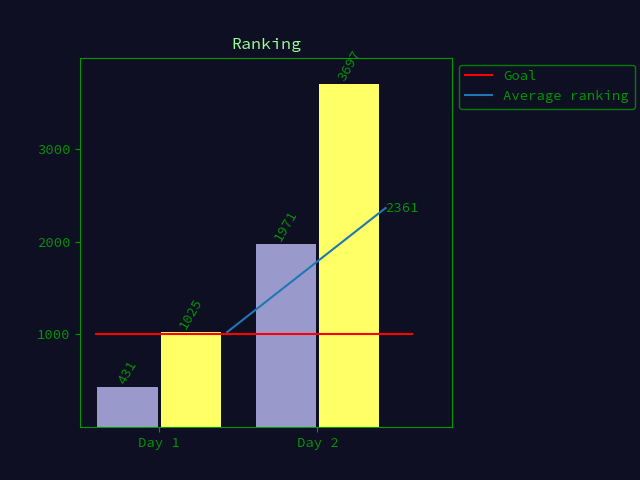
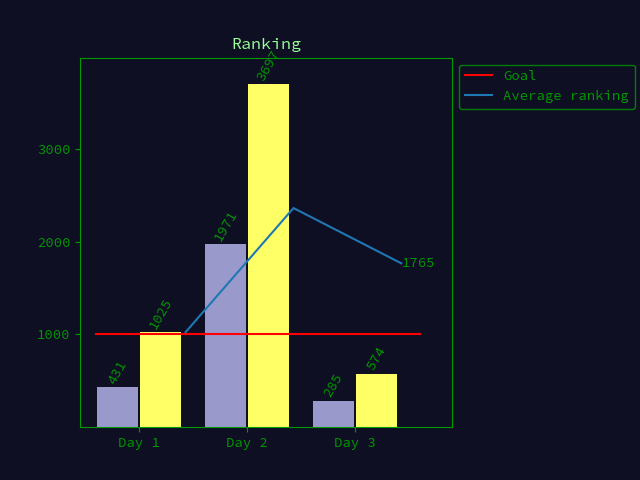
Solution: Day 3
Today was a good day, I funnily enough predicted the solution would use
regex and had pre-opened `findall` in the documentation. Didn't need it
but still I called it! The drop in score was due to me forgetting that
*don't* is not spelled *dont'*... Also that the `mul` instruction starts
out as active. But still, best score I've gotten **so far**!

Yesterday's bad score is all in the past.

Changed region(s): [[0.25, 0.125, 0.6875, 0.9375], [0.1562, 0.6562, 0.2812, 0.9375], [0.5938, 0.7812, 0.625, 0.9062]]

diff --git a/day3.py b/day3.py
@@ -1,0 +1,20 @@
+import re
+def part1(src):
+    s = 0
+    for m in re.findall(r"mul\((\d+),(\d+)\)", src):
+        s += int(m[0]) * int(m[1])
+
+    return s
+
+def part2(src):
+    is_active = True
+    s = 0
+    for m in re.findall(r"(mul|do|don\'t)\((?:(\d+),(\d+))?\)", src):
+        if m[0] == "do":
+            is_active = True
+        elif m[0] == "don't":
+            is_active = False
+        elif m[0] == "mul" and m[1] is not None and m[2] is not None and is_active:
+            s += int(m[1]) * int(m[2])
+
+    return s

diff --git a/README.md b/README.md
@@ -19,13 +19,15 @@ Sets up a correct `venv` and installs all required packages. Will skip the setup
 ## Times
 
 ```
-imported: 2 solution(s) in 365 μs
+imported: 3 solution(s) in 1940 μs
 running: all with benchmark
-day1.part1: ~ (637 μs 15679 samples)
+day1.part1: ~ (638 μs 15667 samples)
 day1.part2: ~ (19 ms 538 samples)
-day2.part1: ~ (1230 μs 8131 samples)
-day2.part2: ~ (4951 μs 2020 samples)
-total: 25 ms
+day2.part1: ~ (1266 μs 7897 samples)
+day2.part2: ~ (5107 μs 1958 samples)
+day3.part1: ~ (289 μs 34550 samples)
+day3.part2: ~ (393 μs 25418 samples)
+total: 26 ms
 ```
 
 ## Score
@@ -33,6 +35,7 @@ total: 25 ms
 ```{scores}
       -------Part 1--------   -------Part 2--------
 Day       Time  Rank  Score       Time  Rank  Score
+  3   00:02:15   285      0   00:07:34   574      0
   2   00:08:38  1971      0   00:24:36  3697      0
   1   00:02:17   431      0   00:05:41  1025      0
 

diff --git a/logs.md b/logs.md
@@ -1,0 +1,20 @@
+# Logbook AoC 2024
+
+Notes for each submitted solution, extracted from `git-log`s.
+
+## Solution: Day 2 (`git diff 709d1be`)
+
+A bad run, the server lagged temporarily and I then used an invalid link
+for some time which cost a few minutes. I also (re-)defined a variable inside
+a loop, why can't python have scoped variables??? The second part went
+awful for the simple reason that I could not come up with a simple strategy
+and rewrote it 3 times and in that process messed up the logic borrowed
+from part 1. I allways got the same answer as the test-input as well which
+misled me for a while. Next day will be better.
+
+## Solution: day 1 (`git diff 57ec9e8`)
+
+First part went very well, but I messed up on the last part by not
+reading the entire problem spec and missed the "multiply by the value"
+part and did therefore not get a good position in the end.
+
